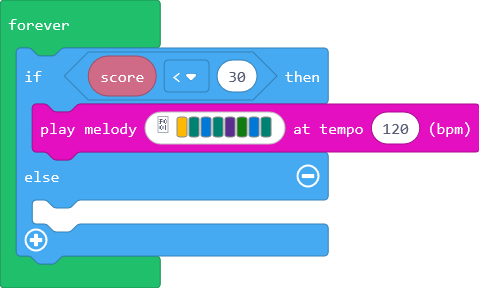
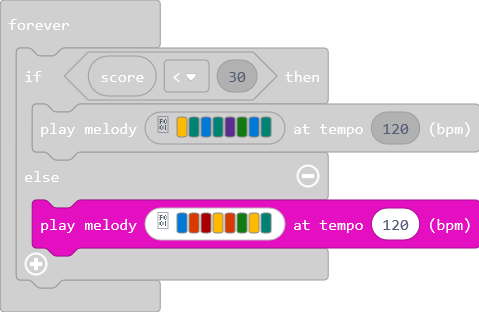
Update main.blocks, main.ts

diff --git a/main.ts b/main.ts
@@ -667,6 +667,6 @@ forever(function () {
     if (info.score() < 30) {
         music.playMelody("A F E F D G E F ", 120)
     } else {
-    	
+        music.playMelody("E B C5 A B G A F ", 120)
     }
 })
